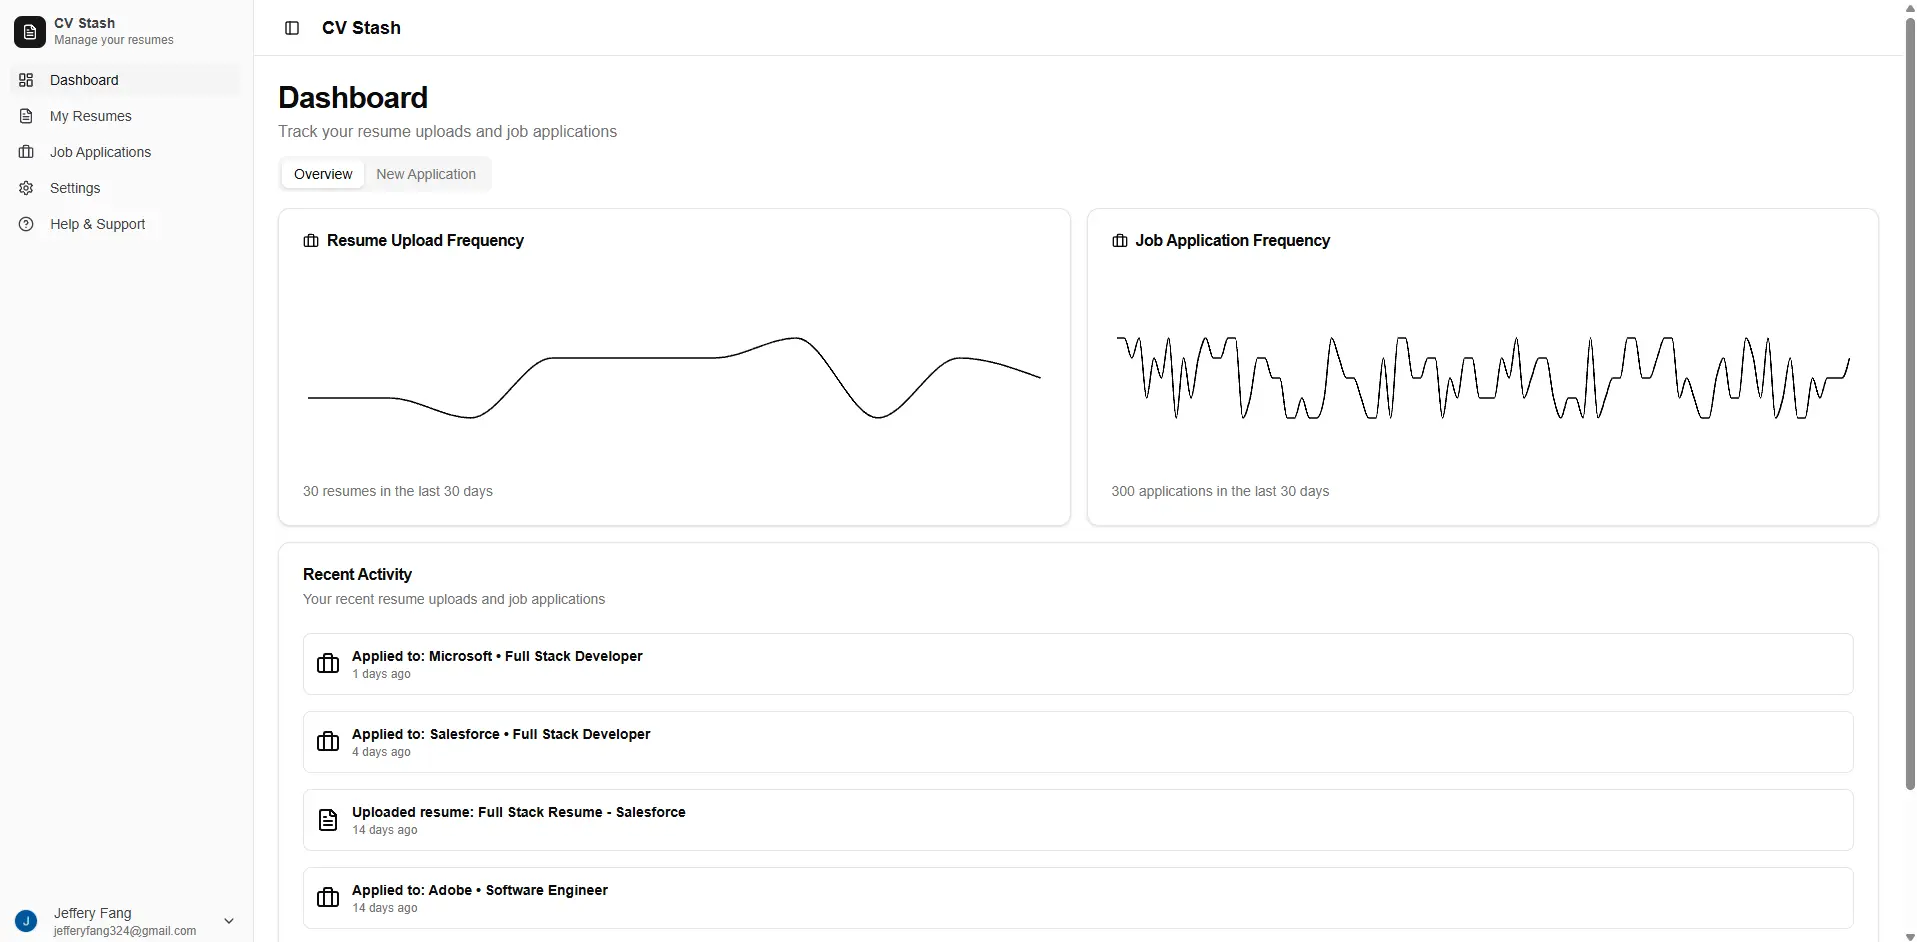
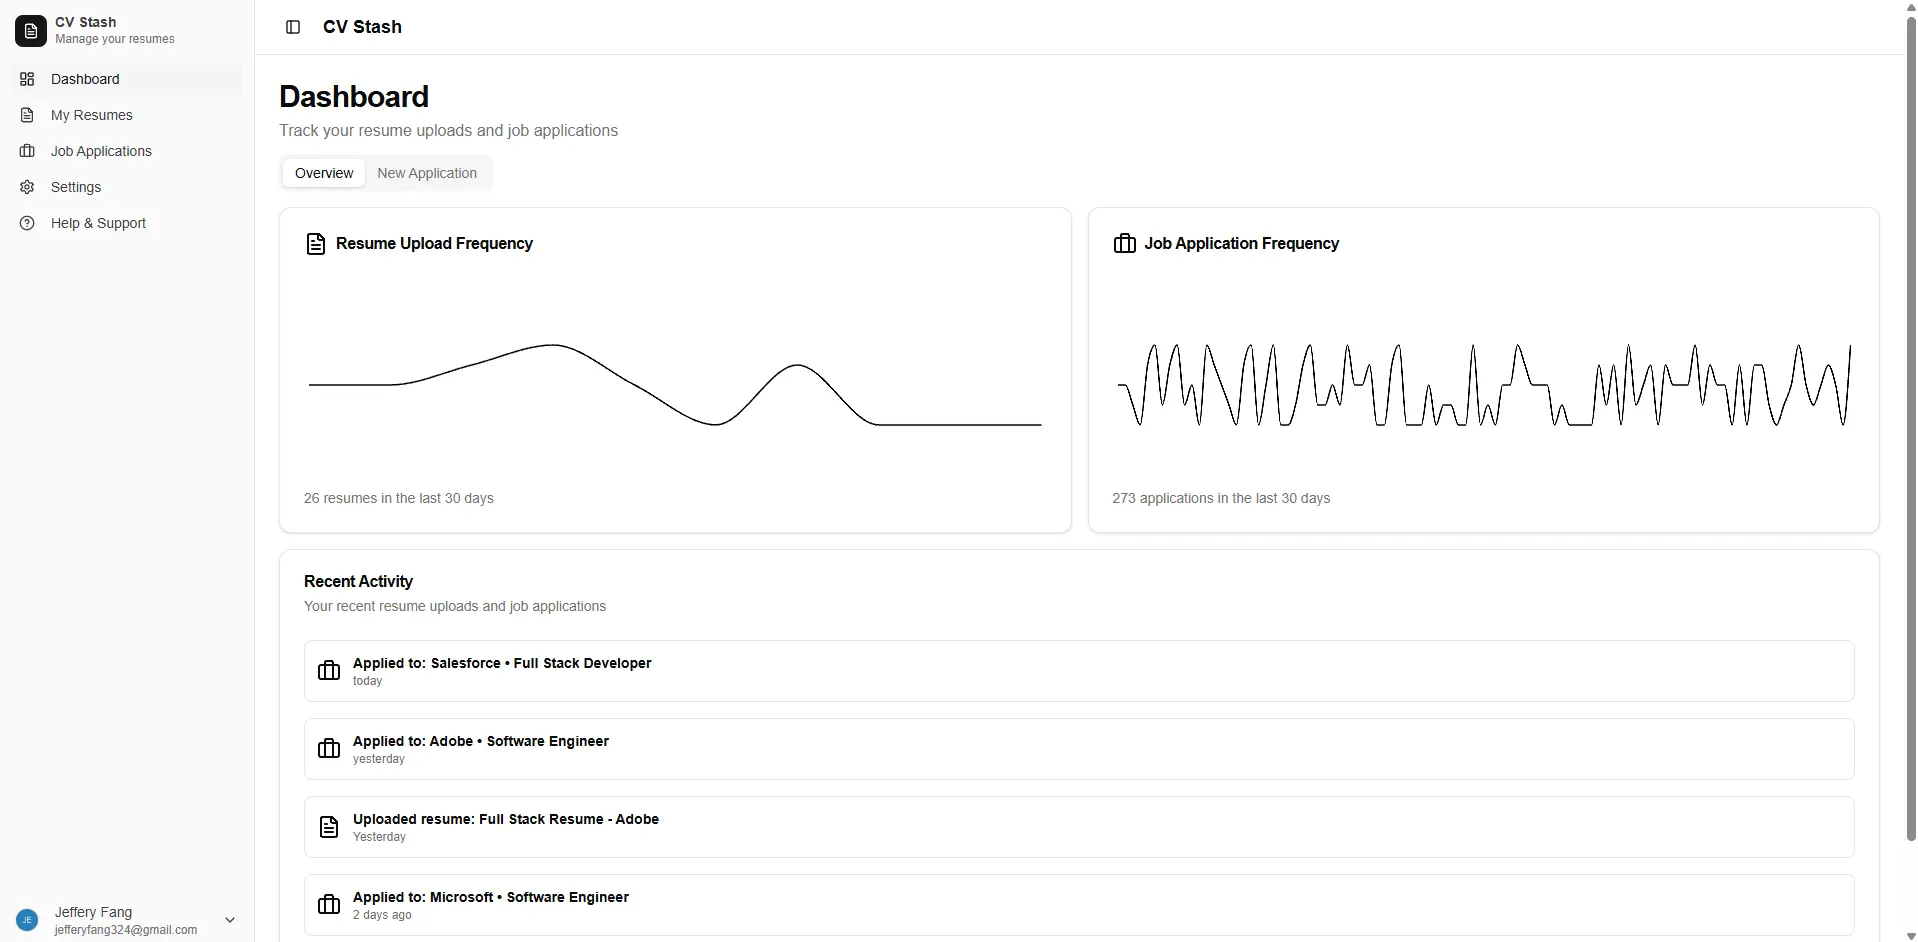
fixed sorting issue with recent activity

diff --git a/src/lib/utils.ts b/src/lib/utils.ts
@@ -122,7 +122,7 @@ export const calculateRecentActivity = (applications: JobApplication[], resumes:
 
     while (recentActivity.length < 5) {
         if (i < recentApplications.length && j < recentResumes.length) {
-            if (recentApplications[i].dateApplied < recentResumes[j].lastModified) {
+            if (recentApplications[i].dateApplied > recentResumes[j].lastModified) {
                 recentActivity.push(recentApplications[i])
                 i++
             } else {
